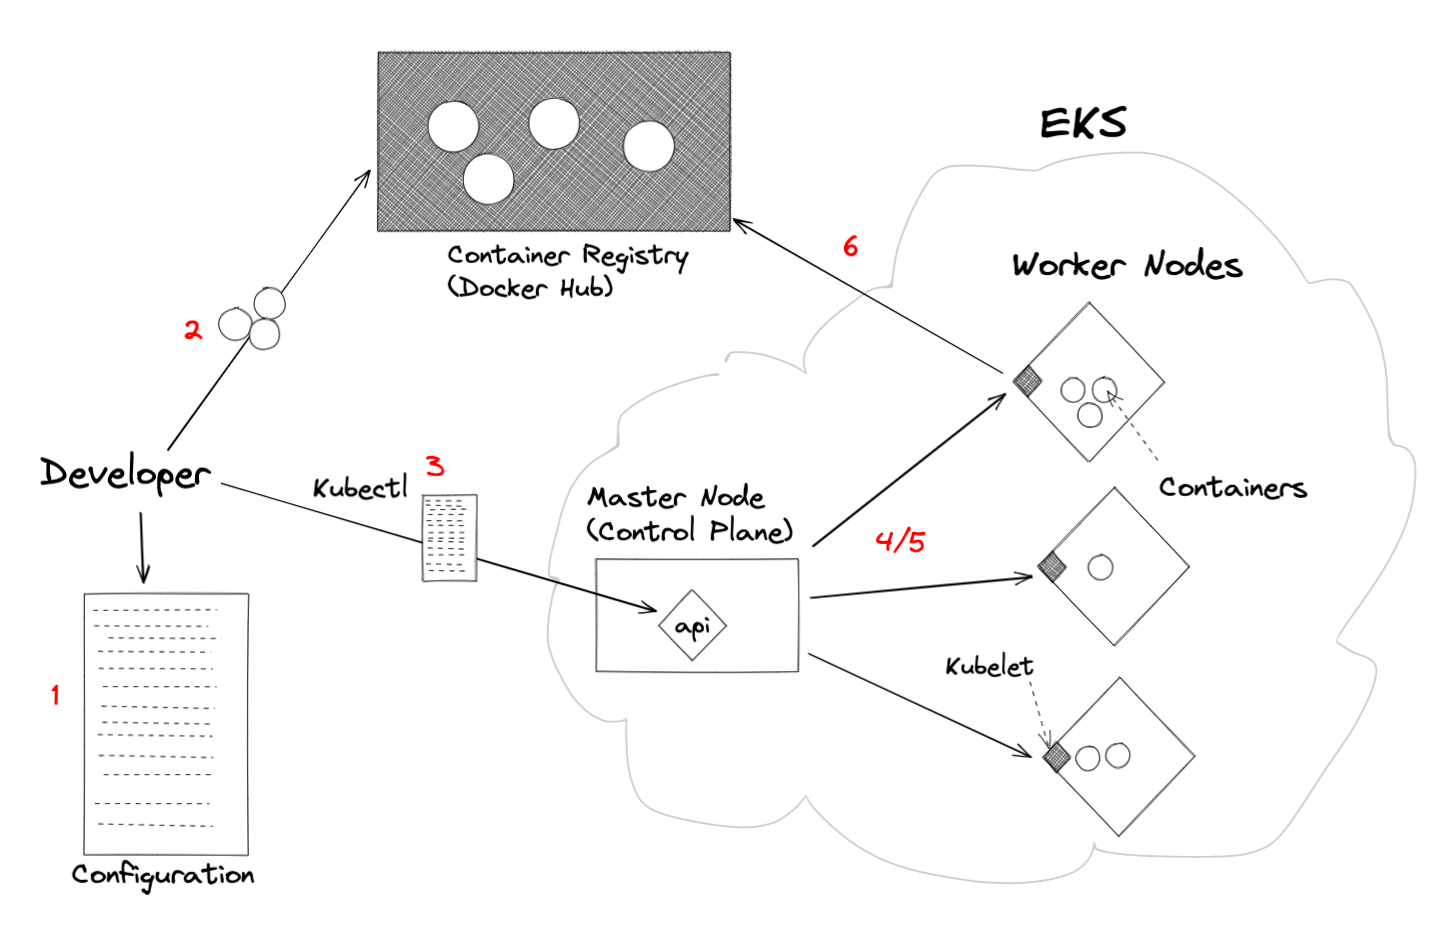
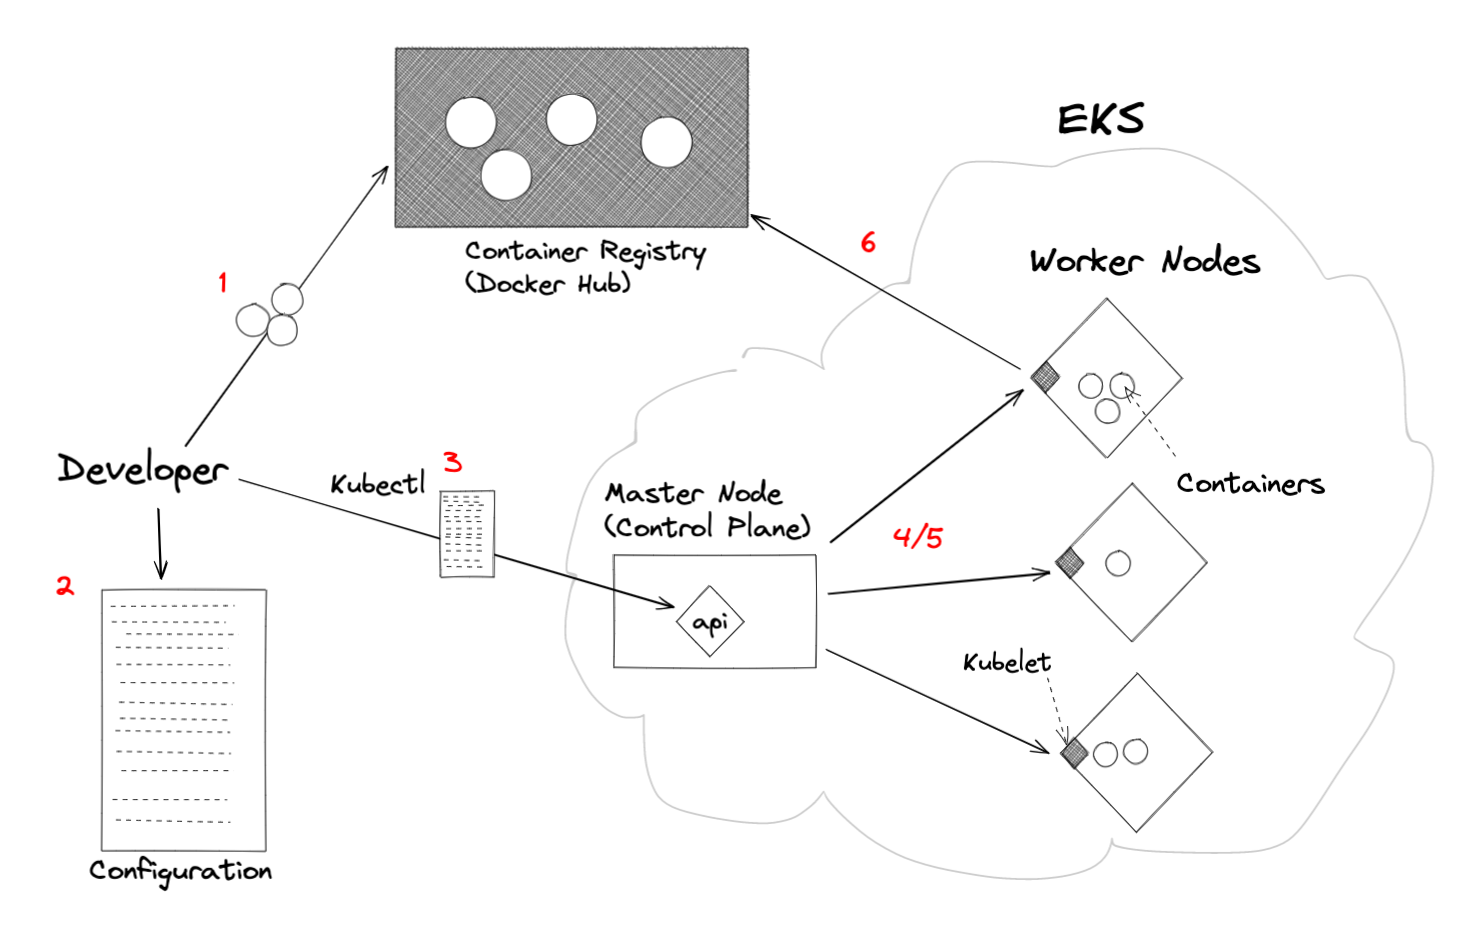
continued working on post about eks

diff --git a/src/markdown-pages/deploying-a-react-app-on-eks.md b/src/markdown-pages/deploying-a-react-app-on-eks.md
@@ -44,20 +44,22 @@ In order to create the EKS infrastructure, there are still a few AWS resources t
 
 Let's create our AWS infrastructure. First, install the `eksctl` command line tool onto your computer. I'm on a Mac, so I'll use brew:
 
-```terminal
+```text
 $ brew tap weaveworks/tap
 $ brew install weaveworks/tap/eksctl
 ```
 
 The `eksctl` CLI takes a number of commands, but the one we're interested in is the `eksctl create cluster`. Let's see the various options available to us with the `--help` command.
 
-```terminal
+```text
 $ eksctl create cluster --help
 ```
 
 As you can see, there are a ton of options that we can pass to the command. We could pass these all in as flags, per the AWS documentation <a href="https://docs.aws.amazon.com/eks/latest/userguide/getting-started-eksctl.html">here</a>.
 
 However, we're not going to pass these in as commands directly. Instead, we're going to define a `.yaml` file that will contain our configuration. We're going to make a configuration file like <a href="https://github.com/weaveworks/eksctl/blob/main/examples/01-simple-cluster.yaml">this</a> from the eksctl repository. This allows us to commit our infrastructure files into our repository for our project. It also is repeatable and tells other developers how our project is configured.
+
+For reference, this is the <a href="https://eksctl.io/usage/schema/">documentation</a> for all of the fields you can pass into this configuration file.
 
 Let's create an `infrastructure` folder and place our file inside of it:
 
@@ -90,19 +92,26 @@ aws_secret_access_key=cLz3BRObITWlkLtNUPSLhsJYwgpVx19BNsDigqqX
 ```
 Install the <a href="https://aws.amazon.com/cli/">AWS CLI</a> and ensure that it's working.
 
-```terminal
+```text
 $ aws --version 
 ```
 
-Now, we can switch to the specific user we want (for the current shell) in our terminal, and check that we're using the right user with the `aws iam get-user` command:
-```terminal
+Now, we can switch to the specific user we want (for the current shell) in our text, and check that we're using the right user with the `aws iam get-user` command:
+```text
 $ export AWS_PROFILE=eksctl
 $ aws iam get-user # Should display information about the eksctl user
 ```
+If we try to create our resources without providing this authentication step, we will likely see an error like this: `error: You must be logged in to the server (the server has asked for the client to provide credentials)`
 
-We can finally now tell `eksctl` to create our cluster:
+e can finally now tell `eksctl` to create our cluster. Let's do a dry run first to see what it would create. Notice that we did not set many of these fields, they were applied automatically by default.
 
-```terminal
+```text
+$ eksctl create cluster --config-file infrastructure/cluster.yaml --dry-run
+```
+
+Once we're happy with the output, lets create the cluster.
+
+```text
 $ eksctl create cluster --config-file infrastructure/cluster.yaml
 ```
 
@@ -110,7 +119,7 @@ Thie command will take a while. Behind the scenes, it's going to create all the 
 
 We can also get a list of the nodegroups from our command line interface.
 
-```terminal
+```text
 $ eksctl get nodegroup --cluster TestCluster
 ```
 
@@ -120,7 +129,7 @@ Still don't believe me? You can actually log into the EC2 instances that make up
 
 And because we enabled SSH access earlier, you can log into any of them with the ssh key:
 
-```terminal
+```text
 $ ssh -i ~/.ssh/id_rsa ec2-user@your_node_ip_here
 ```
 
@@ -130,7 +139,7 @@ Great! Our cluster is up and running, and ready to start running our containers.
 
 Now that we have our cluster up and running, let's create a simple API to deploy to it. We're going to create a basic Express server that dishes up some random information at the `/api` route. Let's initialize our npm repository and install a few dependencies:
 
-```terminal
+```text
 $ npm init -y
 $ npm install express faker
 ```
@@ -141,6 +150,9 @@ Now let's create our server file. It's pretty simple, we're using the `faker` pa
 const express = require("express");
 const faker = require("faker");
 const app = express();
+
+const port = 3005;
+app.use(express.json());
 
 app.get("/api", (req, res) => {
   const people = Array(20)
@@ -157,19 +169,27 @@ app.get("/api", (req, res) => {
   res.status(200).send(people);
 });
 
-app.listen(3000, () => console.log("Listening on port 3000!"));
+app.post("/api", (req, res) => {
+  const userData = req.body;
+  console.log(`POST Request recieved, headers are: `, req.headers);
+  res.status(200).send(userData);
+});
+
+app.listen(port, () => console.log(`Listening on port ${port}!`));
 ```
 
-Not much to say here, we're basically just serving up some random data about people every time we have a GET request. I've deliberately kept this application very simple because this tutorial is meant to focus on Kubernetes.
+Not much to say here, we're basically just serving up some random data about people every time we have a GET request. We've also setup a POST route to just send the user's data back to them and log the headers. I've deliberately kept this application very simple because this tutorial is meant to focus on Kubernetes.
 
-Let's Dockerize it!
+## Dockerize our application
 
-The `Dockerfile` is also going to be pretty bare bones. We're building off of the Node image (I chose version 14 alpine, so it's light weight) we're setting a work directory inside the container, copying over and installing our dependencies, and copying over our code, which will run on startup. The only thing to note here is that the `EXPOSE` keyword <a href="https://docs.docker.com/engine/reference/builder/#expose">does not actually</a> expose that port, we need to do it when we run the container.
+In the diagram above, you'll see that the first step is the developer pushing their Dockerfile up to Docker Hub. We're going to do that now.
+
+The `Dockerfile` is also going to be pretty bare bones. We're building off of the Node image (I chose an alpine base image so that the container will be very small). We're setting a work directory inside the container, copying over and installing our dependencies, and copying over our code, which will run on startup. The only thing to note here is that the `EXPOSE` keyword <a href="https://docs.docker.com/engine/reference/builder/#expose">does not actually</a> expose that port, we need to do it when we run the container.
 
 ```docker:title=Dockerfile
 FROM node:14-alpine
 
-EXPOSE 3000
+EXPOSE 3005
 WORKDIR /app
 
 COPY package*.json .
@@ -181,26 +201,172 @@ CMD ["node", "index.js"]
 
 Let's build the container. Make sure you prefix it with your username so that you can publish it to Docker Hub.
 
-```terminal
-$ docker build -t kingofcramers/dummy-data .
+```text
+$ docker build -t kingofcramers/random-data .
 ```
 
-Let's test it out now locally. Run it on your local machine and curl the endpoint, you should get the dummy data in return:
+Let's test it out now locally. The `-dit` flags tell the container to run in detatched mode and accept text input (in case we want to ssh into it) and the `-p` flag maps the port to our local machine. If you curl the endpoint, you should get the dummy data in return.
 
-```terminal
-$ docker run -dit -p 3000:3000 kingofcramers/dummy-data
-$ curl http://localhost:3000/api
+```text
+$ docker run -dit -p 3005:3005 kingofcramers/random-data
[1 lines of base64/hex data omitted]
+$ curl localhost:3005/api
 [{"first":"Margot","last":"Prosacco","address":"886 Nader Way","phone":"209-417-3736"...
+```
+
+With our POST request, we should also see the user's headers logged within the container. Let's try making a POST request to the `/api` route.
+
+```text
+$ curl -d '{ "hello": "there" }' -H 'Content-Type: application/json' http://localhost:3005/api
+{"hello":"there"} 
+$ docker logs 9dd04
+Listening on port 3005!
+POST Request recieved, headers are:  {
+  host: 'localhost:3005',
+  'user-agent': 'curl/7.64.1',
+  accept: '*/*',
+  'content-type': 'application/json',
+  'content-length': '20'
+}
 ```
 
 Finally, we want to push our Docker image up to Docker hub:
 
-```terminal
-$ docker push kingofcramers/dummy-data
+```text
+$ docker push kingofcramers/random-data
 ```
 
-We're done with the Docker part of this tutorial. We've now created our application, and pushed the image up to the Docker Hub. We'll pull this image down and run it inside of our Kubernetes cluster.
+We're done with the Docker part of this tutorial. We've now created our application, and pushed the image up to the Docker Hub. We'll eventually pull this image down and run it inside of our Kubernetes cluster. Let's write the configuration files for our Kubernetes cluster next.
 
-## Writing our Kubernetes configuration
+## The `kubectl` command
 
+We're always going to interact with kubernetes using the `kubectl` command. This command will communicate with the API server inside of the master node. Since we've already started up our kubernetes cluster, we should have an API server listening for commands.
+
+Just how the `eksctl` command uses yaml files to create and manage resources, we do the same thing with the `kubectl` command. We create resources within our cluster by sending the data contained in these files to our master node, which then creates/modifies/destroys create resources within our cluster by sending the data contained in these files to our master node, which then creates/modifies/destroys our state. For a review of this concept, check out <a href="https://www.ibm.com/cloud/blog/chef-ansible-puppet-terraform">this</a> post on the concept of infrastructure as code, or IAC.
+
+Some of the commands that we'll run from here on out will be one-liners, but they will generally only be commands that "get" the current state of our application. We're not going to create or modify resources outside of our configuration files.
+
+> I'd highly recommend setting up an <a class="dark__link" href="https://linuxize.com/post/how-to-create-bash-aliases/">alias</a> for the `kubectl` command, to make it quicker to write. For the rest of this post, I'll be using `k` as an alias. I'd also recommend enabling autocompletion for your shell. I'm using ZSH, and the instructions are <a class="dark__link" href="https://kubernetes.io/docs/tasks/tools/included/optional-kubectl-configs-zsh/">here</a>, but the process is similar for Bash and Powershell.
+
+When we do apply our configuration files, `kubectl` will create the resources inside of the "context" in which it's operating. If the context is not your EKS cluster, then switch it:
+
+```text
+$ k config use-context eksctl@TestCluster.us-east-1.eksctl.io
+```
+
+## Creating our first EKS Pod
+
+Let's create the configuration file for our pod. Notice that it specifies the API version that we're using, and describes the `kind` of resource we want to createm, in this case, a pod. The `spec` field provides details about the pod, like the containers, volumes, and other data. In this case specifically, it details a single `containers` field that gives a list of the containers we want and where to find their images.
+
+```yaml:title=infrastructure/pods.yaml
+apiVersion: v1
+kind: Pod
+metadata:
+  name: test-pod
+spec:
+  containers:
+  - image: kingofcramers/random-data
+    name: test-pod
+    ports:
+    - containerPort: 3005
+      protocol: TCP
+```
+
+One thing to note here: Like the `PORT` command inside our Dockerfile, the `ports` field here is purely informational, the port binding will occur elsewhere in our configuration.
+
+Let's now create this pod inside of our cluster.
+
+```text
+$ k create -f infrastructure/pods.yaml
+```
+
+After running this command, you can check to see the pod has been created. You may also see that the pod is still creating. Give it a moment, because your cluster has to pull down this image from Docker Hub.
+
+
+```text
+$ k get pods
+NAME       READY   STATUS    RESTARTS   AGE
+test-pod   1/1     Running   0          60s
+```
+
+Congratulations, you've deployed your first container to your Kubernetes cluster! Let's see what other fields Kubernetes created for us by getting the full definition of the running pod.
+
+```text
+$ k get pod test-pod -o yaml
+```
+
+We can also see the logs of our pod (more precisely, our container). In our case, it's the console from our Javascript file. Container logs are rotated daily and whenever the log file reaches 10MB; this command will show the latest version.
+
+```text
+$ k logs test-pod
+Listening on port 3000!
+```
+
+## Introducing Replication Controllers
+
+This is great, but it's not actually how you'll deploy pods to your cluster. One of the biggest benefits of Kubernetes is that it's self-healing: when a pod goes down, either becuase of traffic spikes or other problems within the application, Kubernetes has the capacity to create a new version of that pod. However, we don't currently have that functionality.
+
+Let's delete the pod.
+
+```text
+$ k destroy pod test-pod
+$ k get pods
+No resources in default namespace
+```
+
+The pod was *not recreated* after it was deleted. 
+
+In order to have our containers be recreated in case of failure, we need to use Replication Controllers. These are another Kubernetes resource that manage our pods on our behalf. We declare how many pods we want, and the replication controller ensures that the state of our application always matches that number by restarting pods when they die. Let's take a look at a new configuration file.
+
+```yaml:title=resources/rc.yaml
+apiVersion: v1
+kind: ReplicationController
+metadata:
+  name: test-rc
+spec:
+  replicas: 3
+  selector:
+    app: test-pod
+  template:
+    metadata:
+      labels:
+        app: test-pod
+    spec:
+      containers:
+      - name: test-pod
+        image: kingofcramers/random-data
+        ports:
+        - containerPort: 3005
+```
+
+When you apply this configuration file, Kubernetes will create three new pods that match the spec provided. It's also going to restart those pods whenever any of them die.
+
+Let's create our replication controller.
+
+```text
+$ k create -f infrastructure/rc.yaml
+replicationcontroller/test-rc created
+```
+
+Now let's try deleting one of our pods (this command may take a moment). Notice that when we get our pods after doing the delete, the replication controller has already spun up a new pod in order to match the three specified in our configuration.
+
+```text{12,15}
+$ k get pods
+NAME            READY   STATUS    RESTARTS   AGE
+test-rc-6phnq   1/1     Running   0          3m53s
+test-rc-b5ptc   1/1     Running   0          3m53s
+test-rc-nh4pk   1/1     Running   0          3m53s
+
+$ k delete pod test-rc-6phnq
+pod "test-rc-6phnq" deleted
+
+$ k get pods
+NAME            READY   STATUS              RESTARTS   AGE
+test-rc-6phnq   1/1     Terminating         0          5m46s
+test-rc-b5ptc   1/1     Running             0          5m46s 
+test-rc-nh4pk   1/1     Running             0          5m46s
+test-rc-qsm9p   1/1     ContainerCreating   0          2m14s
+```
+
+Since the replication controller manages the pods, if we delete the entire replication controller, the pods will also be deleted.
 
